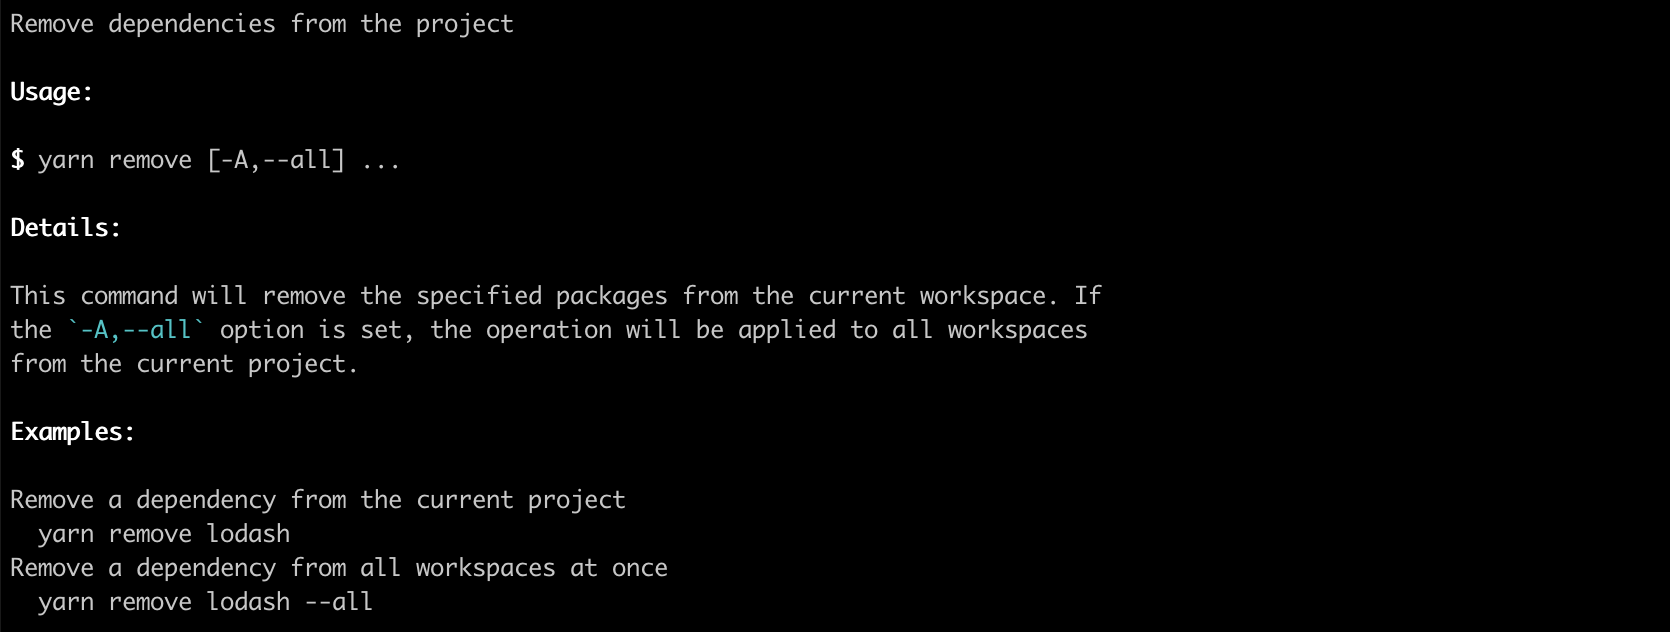
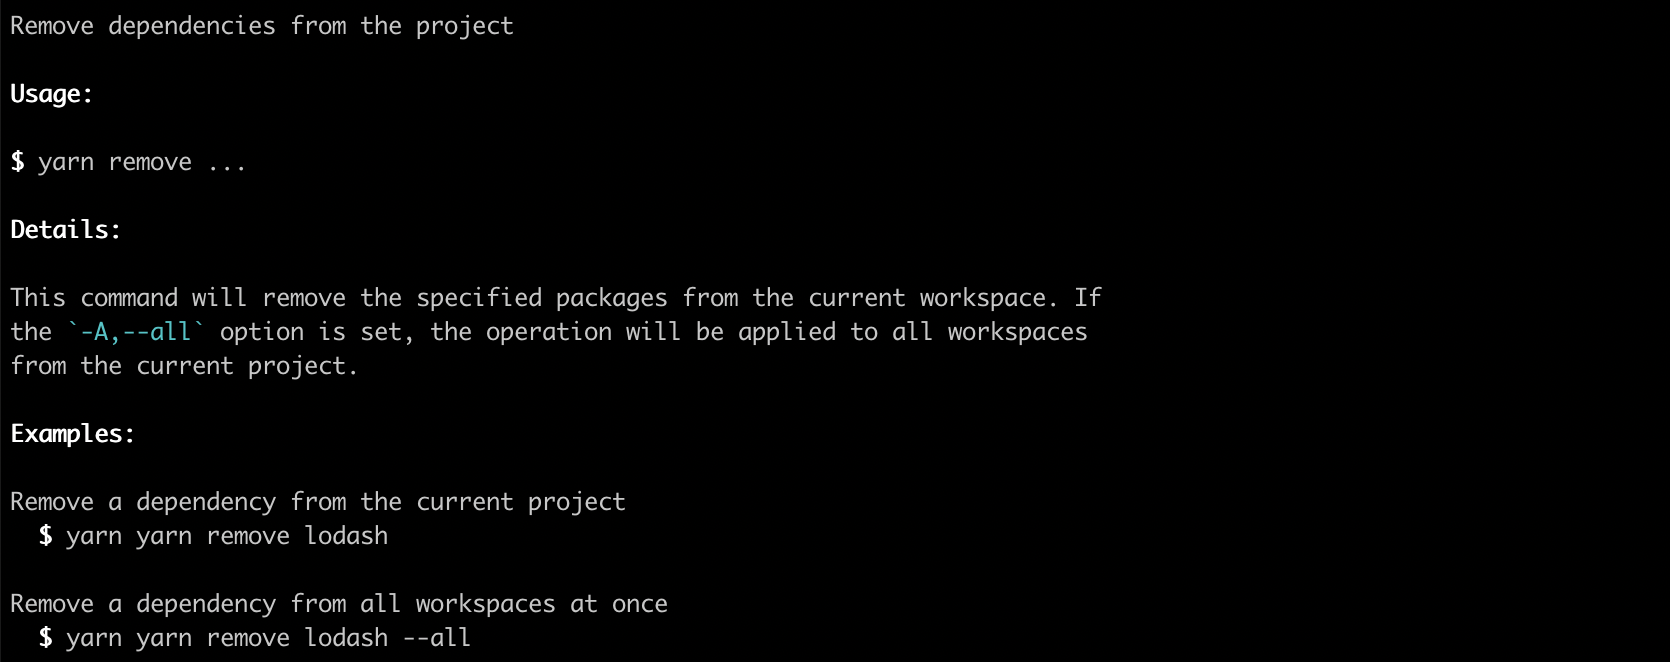
Improvements

diff --git a/sources/demos/advanced.ts b/sources/demos/advanced.ts
@@ -81,7 +81,7 @@ class YarnRunExec extends Command<Context> {
     public rest!: string[];
 
     static usage = Command.Usage({
-        category: `Foo`,
+        category: `Script-related commands`,
     });
 
     @Command.Path(`run`)
@@ -148,6 +148,29 @@ export default class YarnAdd extends Command<Context> {
     }
 }
 
+class YarnRemove extends Command<Context> {
+    @Command.Rest()
+    packages: string[] = [];
+
+    static usage = Command.Usage({
+        description: `remove dependencies from the project`,
+        details: `
+            This command will remove the specified packages from the current workspace. If the \`-A,--all\` option is set, the operation will be applied to all workspaces from the current project.
+        `,
+        examples: [[
+            `Remove a dependency from the current project`,
+            `yarn remove lodash`,
+        ], [
+            `Remove a dependency from all workspaces at once`,
+            `yarn remove lodash --all`,
+        ]],
+    });
+
+    @Command.Path(`remove`)
+    async execute() {
+    }
+}
+
 const cli = new Cli<Context>({
     binaryLabel: `Yarn Project Manager`,
     binaryName: `yarn`,
@@ -158,6 +181,7 @@ cli.register(YarnDefaultDefinitions);
 cli.register(YarnDefaultHelp);
 cli.register(YarnDefaultRun);
 cli.register(YarnInstall);
+cli.register(YarnRemove);
 cli.register(YarnRunListing);
 cli.register(YarnRunExec);
 cli.register(YarnAdd);

diff --git a/sources/advanced/Cli.ts b/sources/advanced/Cli.ts
@@ -35,11 +35,11 @@ export class Cli<Context extends BaseContext = BaseContext> implements MiniCli<C
     public readonly binaryName: string;
     public readonly binaryVersion?: string;
 
-    static from<Context extends BaseContext = BaseContext>(commands: Command<Context>[]) {
+    static from<Context extends BaseContext = BaseContext>(commandClasses: CommandClass<Context>[]) {
         const cli = new Cli<Context>();
 
-        for (const command of commands)
-            cli.register(command);
+        for (const commandClass of commandClasses)
+            cli.register(commandClass);
 
         return cli;
     }

diff --git a/README.md b/README.md
@@ -1,4 +1,4 @@
-# <img src="./logo.svg" width="80" /> Clipanion
+# <img src="./logo.svg" height="32" /> Clipanion
 
 > A companion to manage your CLI applications without hassle
 
@@ -12,7 +12,7 @@ yarn add clipanion
 
 ## Why
 
-  - Clipanion supports better typing than its competitor
+  - Clipanion supports advanced typing mechanisms
   - Clipanion supports nested commands (`yarn workspaces list`)
   - Clipanion supports transparent option proxying without `--` (for example `yarn dlx eslint --fix`)
   - Clipanion supports all option types you could think of (including negations, batches, ...)
@@ -142,9 +142,9 @@ This will print a block similar to the following:
 
 ## Composition
 
-Commands can call each other by making use of their `cli` property:
+Commands can call each other by making use of their `cli` internal property:
 
-```
+```ts
 class FooCommand extends Command {
     @Command.Path(`foo`)
     async execute() {
